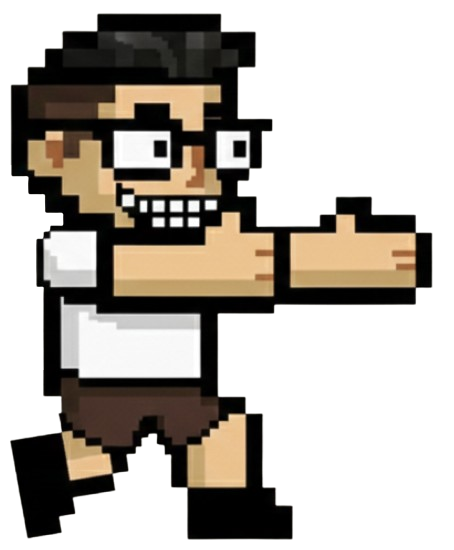
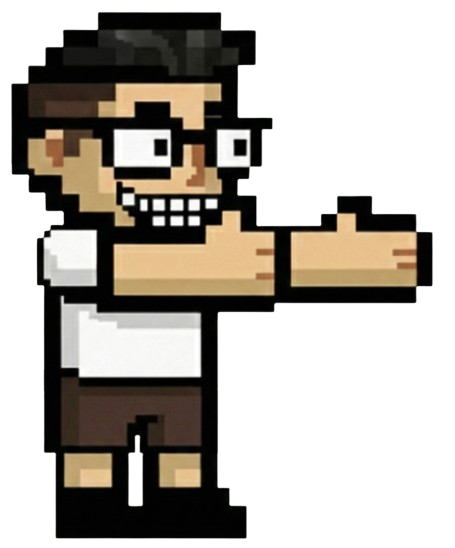
Common Enemy 2 frame Walk Cycle

diff --git a/Frontend/core/src/main/java/com/labubushooter/frontend/animation/WalkingAnimation.java b/Frontend/core/src/main/java/com/labubushooter/frontend/animation/WalkingAnimation.java
@@ -4,13 +4,15 @@ import com.badlogic.gdx.graphics.Texture;
 
 /**
  * Walking animation implementation using two frames.
+ * Supports grounded state to lock animation when airborne.
  * 
- * Design Pattern: Strategy Pattern
+ * Design Pattern: Strategy Pattern + State Pattern
  * - Implements AnimationStrategy for walking behavior
+ * - Uses grounded state to control animation behavior
  * - Can be easily replaced with other animation strategies
  * 
  * SOLID Principles:
- * - Single Responsibility: Only handles walking animation logic
+ * - Single Responsibility: Only handles walking animation logic with grounded state
  * - Open/Closed: Can be extended without modifying CommonEnemy
  * - Dependency Inversion: CommonEnemy depends on AnimationStrategy interface
  */
@@ -21,6 +23,7 @@ public class WalkingAnimation implements AnimationStrategy {
     private float animationTimer;
     private boolean facingLeft;
     private boolean isFrame1;
+    private boolean isGrounded;
     
     // Animation speed: frame duration in seconds
     private static final float FRAME_DURATION = 0.2f;
@@ -40,10 +43,16 @@ public class WalkingAnimation implements AnimationStrategy {
         this.animationTimer = 0f;
         this.facingLeft = false;
         this.isFrame1 = true;
+        this.isGrounded = true;
     }
     
     @Override
     public void update(float delta) {
+        // Only update animation when grounded
+        if (!isGrounded) {
+            return;
+        }
+        
         animationTimer += delta;
         
         // Switch frame when duration exceeded
@@ -55,6 +64,11 @@ public class WalkingAnimation implements AnimationStrategy {
     
     @Override
     public Texture getCurrentFrame() {
+        // When airborne, always return frame1 (static frame)
+        if (!isGrounded) {
+            return frame1;
+        }
+        // When grounded, return current animation frame
         return isFrame1 ? frame1 : frame2;
     }
     
@@ -69,10 +83,16 @@ public class WalkingAnimation implements AnimationStrategy {
     }
     
     @Override
+    public void setGrounded(boolean grounded) {
+        this.isGrounded = grounded;
+    }
+    
+    @Override
     public void reset() {
         animationTimer = 0f;
         isFrame1 = true;
         facingLeft = false;
+        isGrounded = true;
     }
 }
 

diff --git a/Frontend/core/src/main/java/com/labubushooter/frontend/animation/AnimationStrategy.java b/Frontend/core/src/main/java/com/labubushooter/frontend/animation/AnimationStrategy.java
@@ -44,6 +44,14 @@ public interface AnimationStrategy {
     void setFacingLeft(boolean facingLeft);
     
     /**
+     * Sets whether the entity is grounded (on the ground).
+     * Used to control animation behavior (e.g., pause walking animation when airborne).
+     * 
+     * @param grounded true if grounded, false if airborne
+     */
+    void setGrounded(boolean grounded);
+    
+    /**
      * Resets the animation to its initial state.
      */
     void reset();

diff --git a/Frontend/core/src/main/java/com/labubushooter/frontend/objects/CommonEnemy.java b/Frontend/core/src/main/java/com/labubushooter/frontend/objects/CommonEnemy.java
@@ -165,6 +165,9 @@ public class CommonEnemy implements Pool.Poolable {
             }
         }
 
+        // Update animation grounded state based on collision detection
+        animation.setGrounded(grounded);
+
         // Reset if fell below ground
         if (collider.y < 0) {
             spawned = false;
